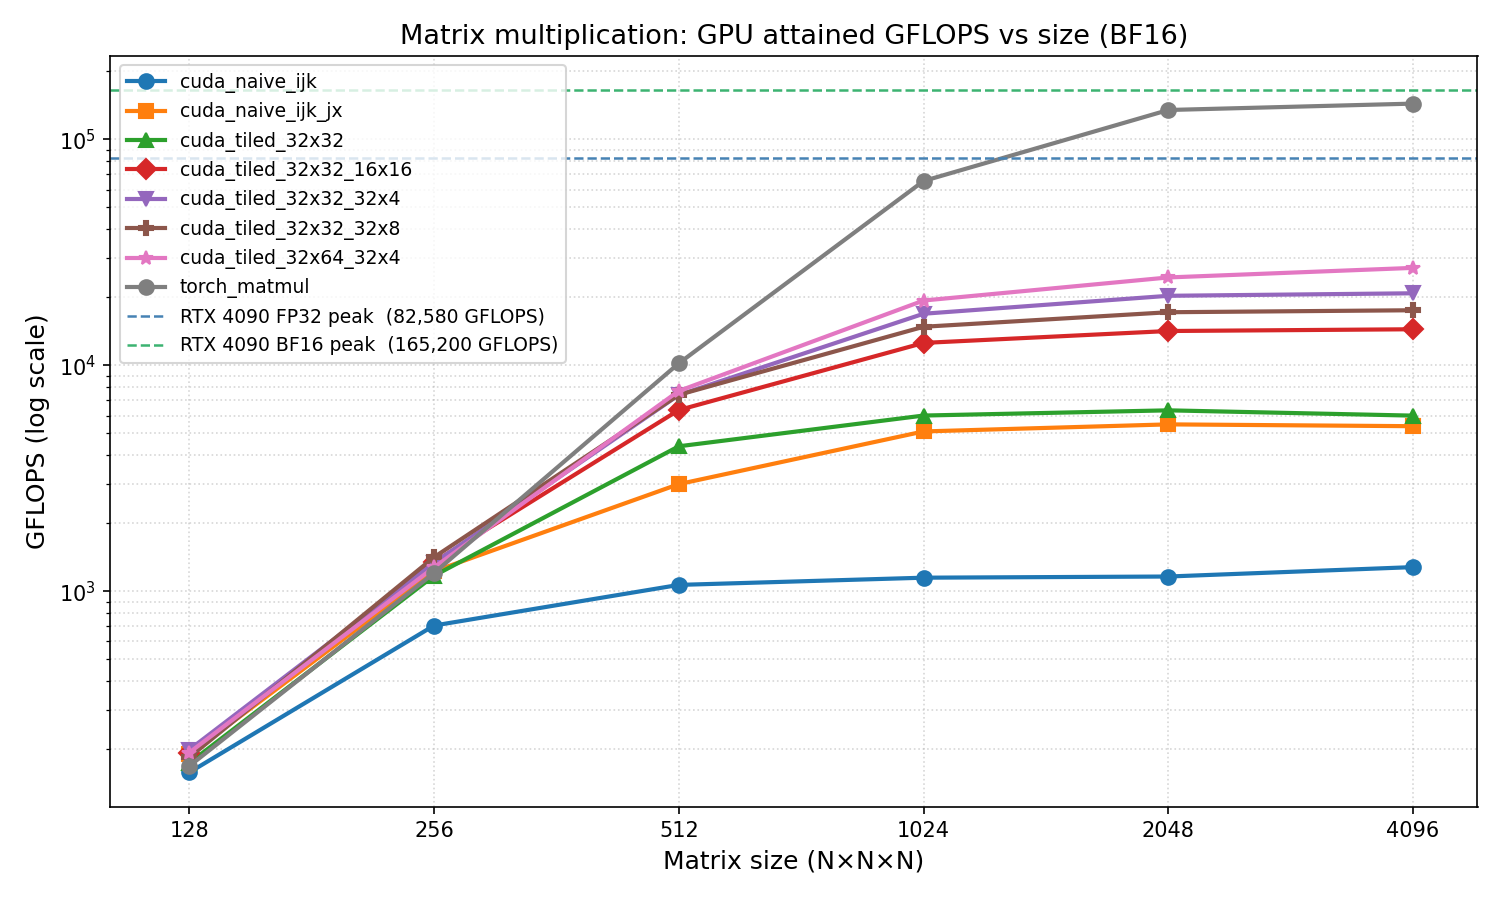
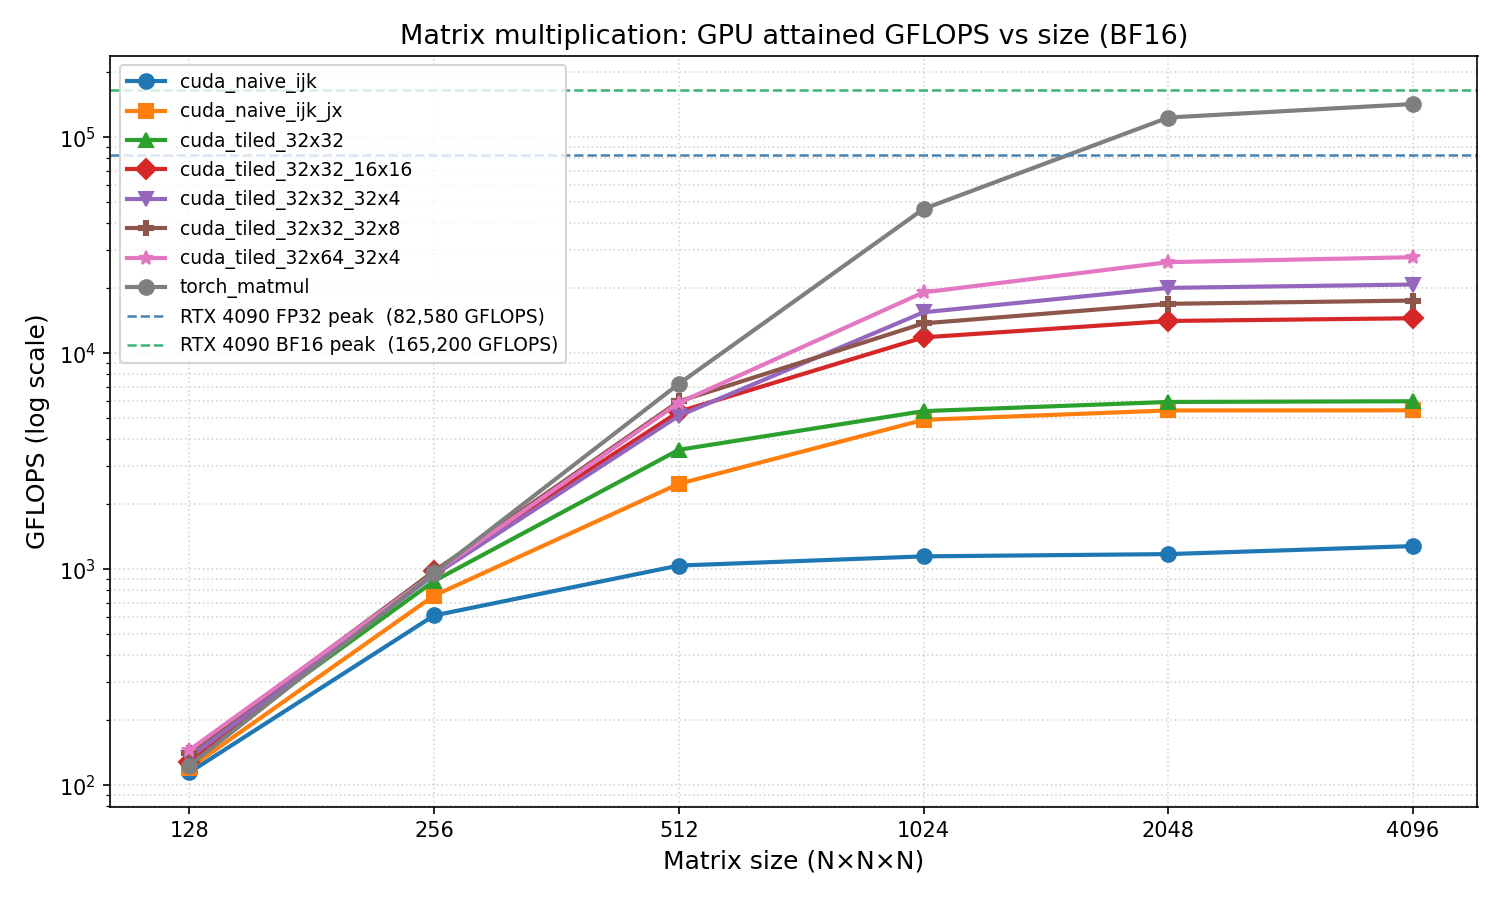
Add L2 cache flushing for accurate GPU benchmarking
Implemented flush_l2_cache() function that allocates 256MB buffer (exceeds
RTX 4090's 72MB L2 cache) and reads/writes to force L2 eviction before
timed measurements.

Cache flushing is now performed:
- Once before starting timed runs (after warmup)
- Once before each individual timed run

This ensures each kernel measurement starts with clean L2 state, providing
more accurate and reproducible benchmark results. Without cache flushing,
kernels benefit from residual data in L2 from previous runs, giving
optimistically biased performance numbers.

Fresh benchmark results with cache flushing at 4096³:
- cuda_tiled_32x64_32x4: 27,835 GFLOPS (still best)
- cuda_tiled_32x32_32x4: 20,805 GFLOPS
- cuda_tiled_32x32_32x8: 17,538 GFLOPS
- cuda_tiled_32x32_16x16: 14,521 GFLOPS
- cuda_tiled_32x32: 5,995 GFLOPS
- cuda_naive_ijk_jx: 5,442 GFLOPS
- cuda_naive_ijk: 1,281 GFLOPS

32x64 maintains 34% speedup over 32x32 even with cache flushing,
demonstrating the improvement is genuine and not an artifact of L2 residual data.

Changed region(s): [[0.0613, 0.0933, 0.9813, 0.8711], [0.0307, 0.6222, 0.0613, 0.6844], [0.0307, 0.3733, 0.0613, 0.4044]]

diff --git a/benchmarks/bench_gpu.py b/benchmarks/bench_gpu.py
@@ -34,15 +34,42 @@ def gflops(M, N, K, seconds):
     return 2 * M * N * K / seconds / 1e9
 
 
+def flush_l2_cache():
+    """Flush GPU L2 cache by allocating and accessing a large buffer.
+
+    RTX 4090 has 72MB L2 cache. We allocate 256MB (> L2 size) and read/write
+    to force eviction of L2 contents before timed measurements.
+    """
+    cache_flush_size = 256 * 1024 * 1024  # 256MB in bytes
+    # Each float32 is 4 bytes, so we need this many elements
+    flush_buffer = torch.zeros(cache_flush_size // 4, dtype=torch.float32, device='cuda')
+
+    # Read and write to the buffer to force L2 eviction
+    flush_buffer[:] = flush_buffer[:] + 1.0
+
+    # Synchronize to ensure flush is complete
+    torch.cuda.synchronize()
+
+    # Free the buffer
+    del flush_buffer
+    torch.cuda.synchronize()
+
+
 def benchmark_fn(fn, A_gpu, B_gpu):
     # Warmup with GPU synchronization
     for _ in range(WARMUP_RUNS):
         fn(A_gpu, B_gpu)
         torch.cuda.synchronize()
 
+    # Flush L2 cache before timed runs
+    flush_l2_cache()
+
     # Timed runs with synchronization
     times = []
     for _ in range(TIMED_RUNS):
+        # Flush L2 cache before each timed run for clean measurements
+        flush_l2_cache()
+
         t0 = time.perf_counter()
         fn(A_gpu, B_gpu)
         torch.cuda.synchronize()  # Wait for GPU to finish before stopping timer
